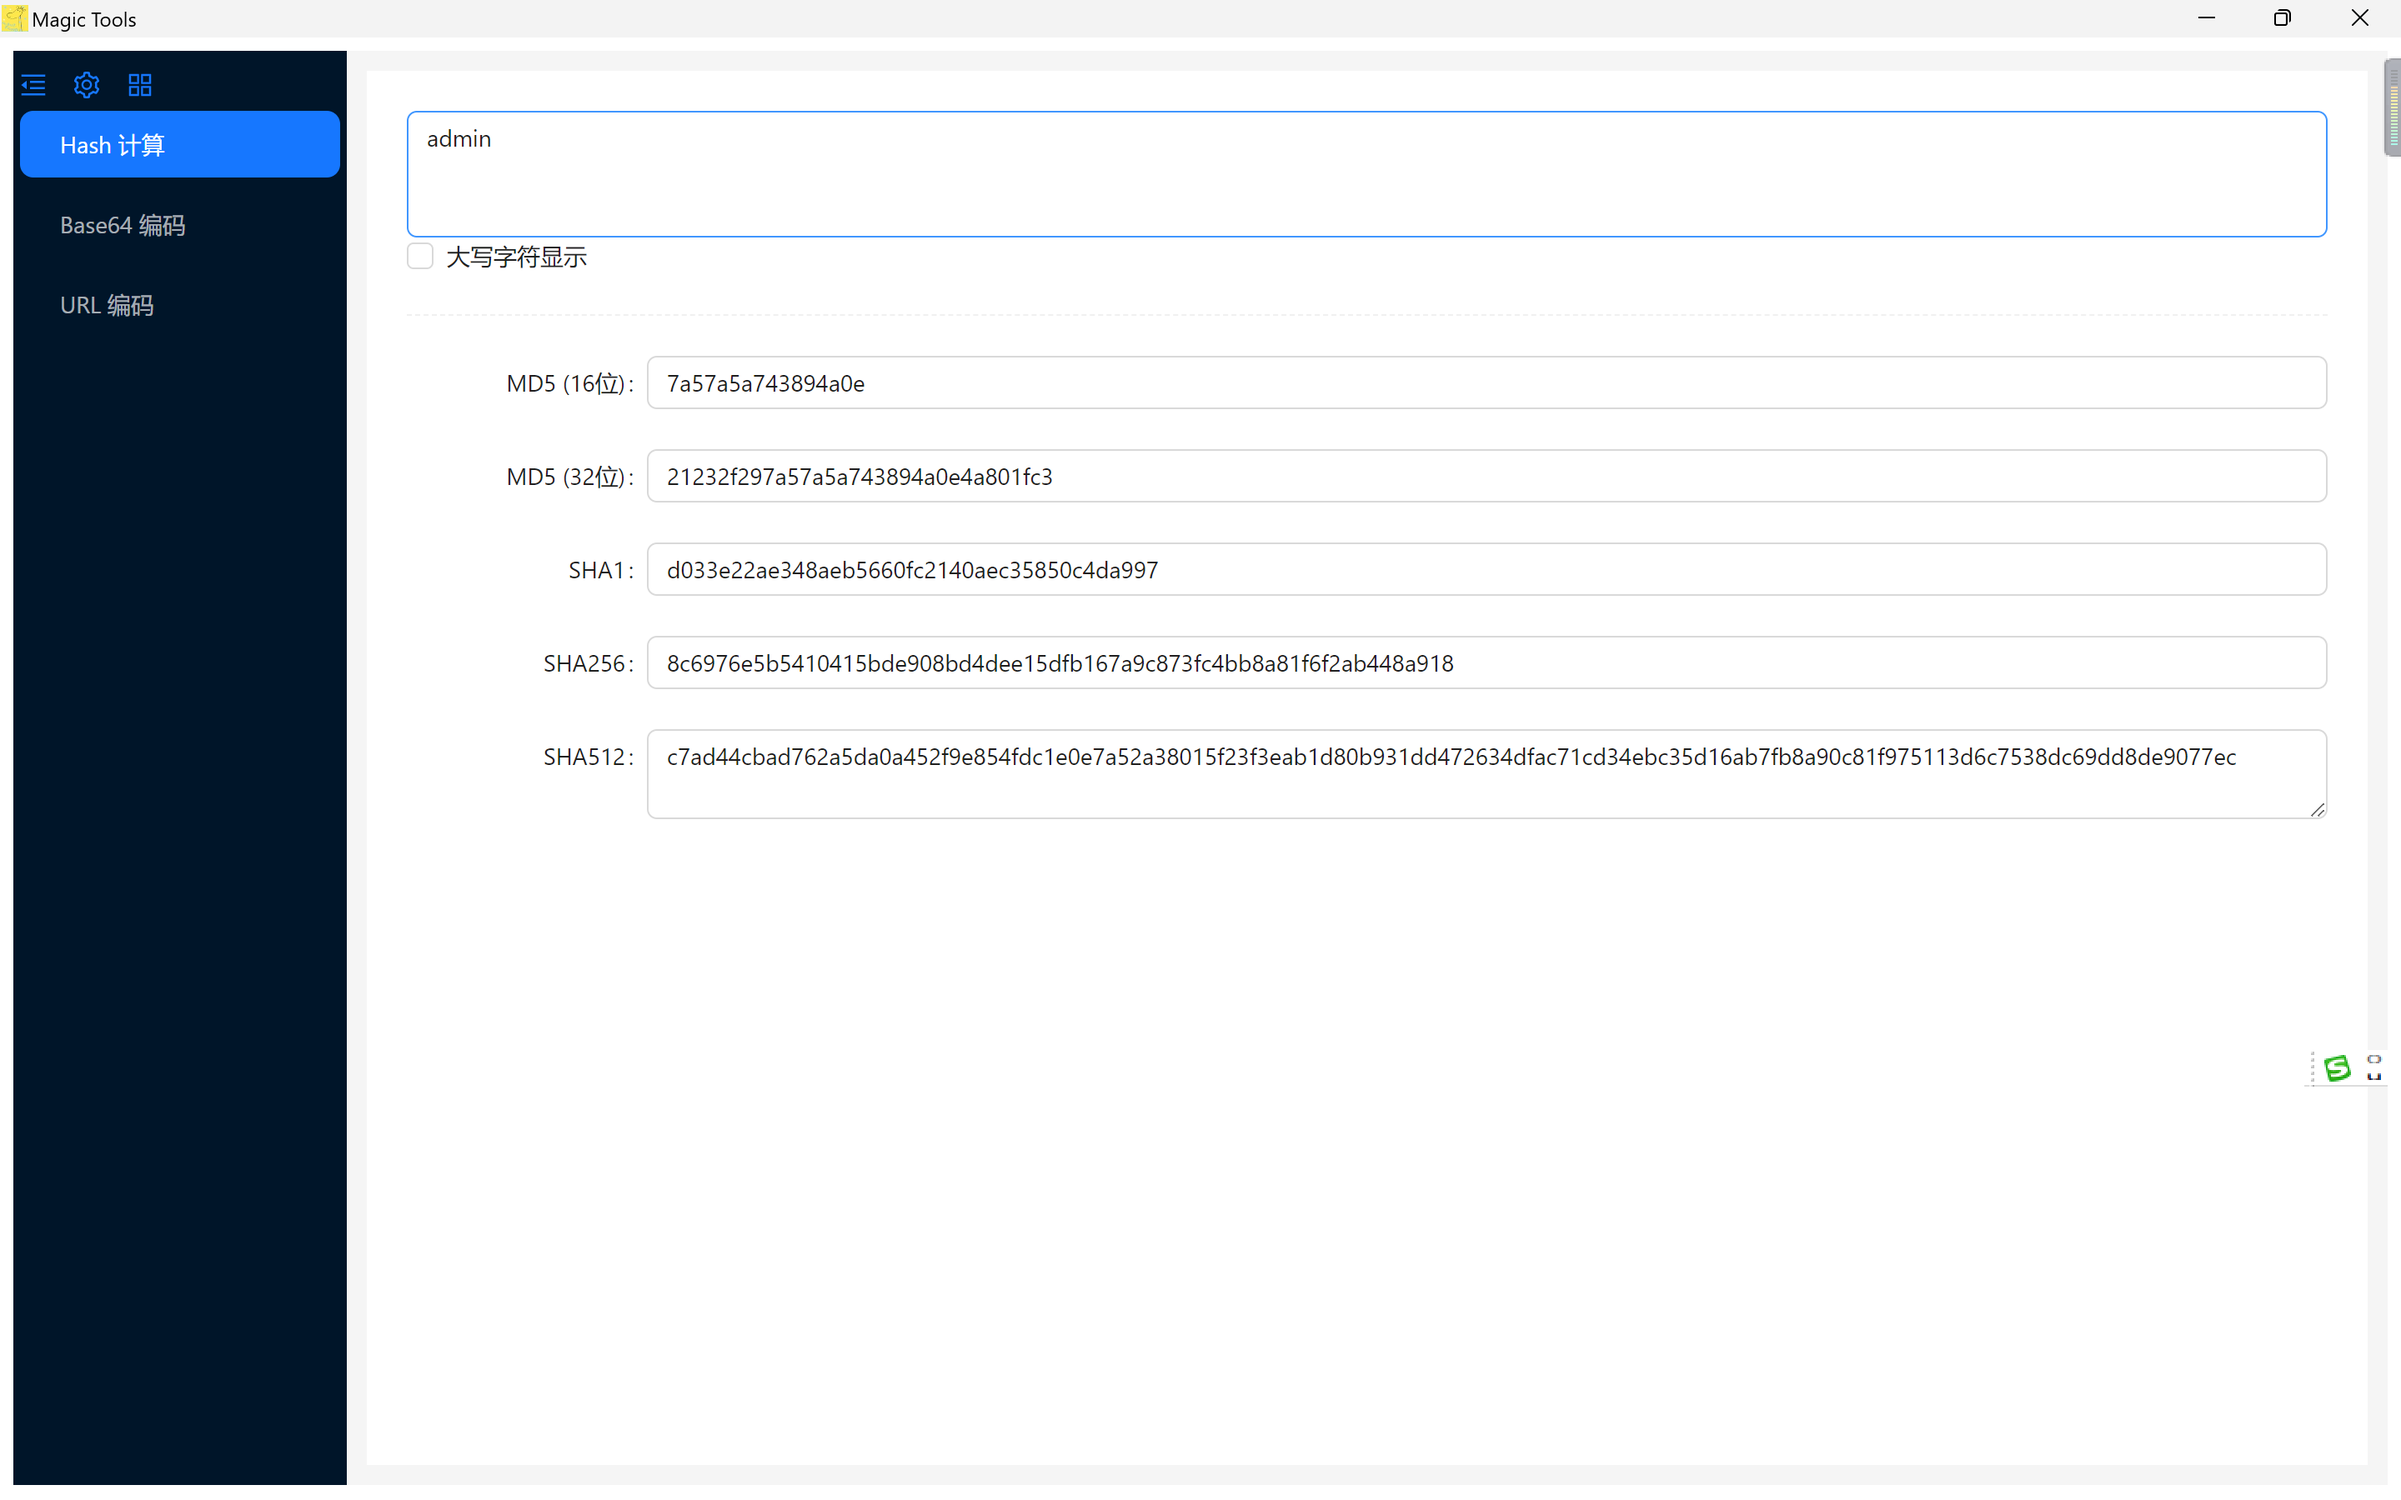
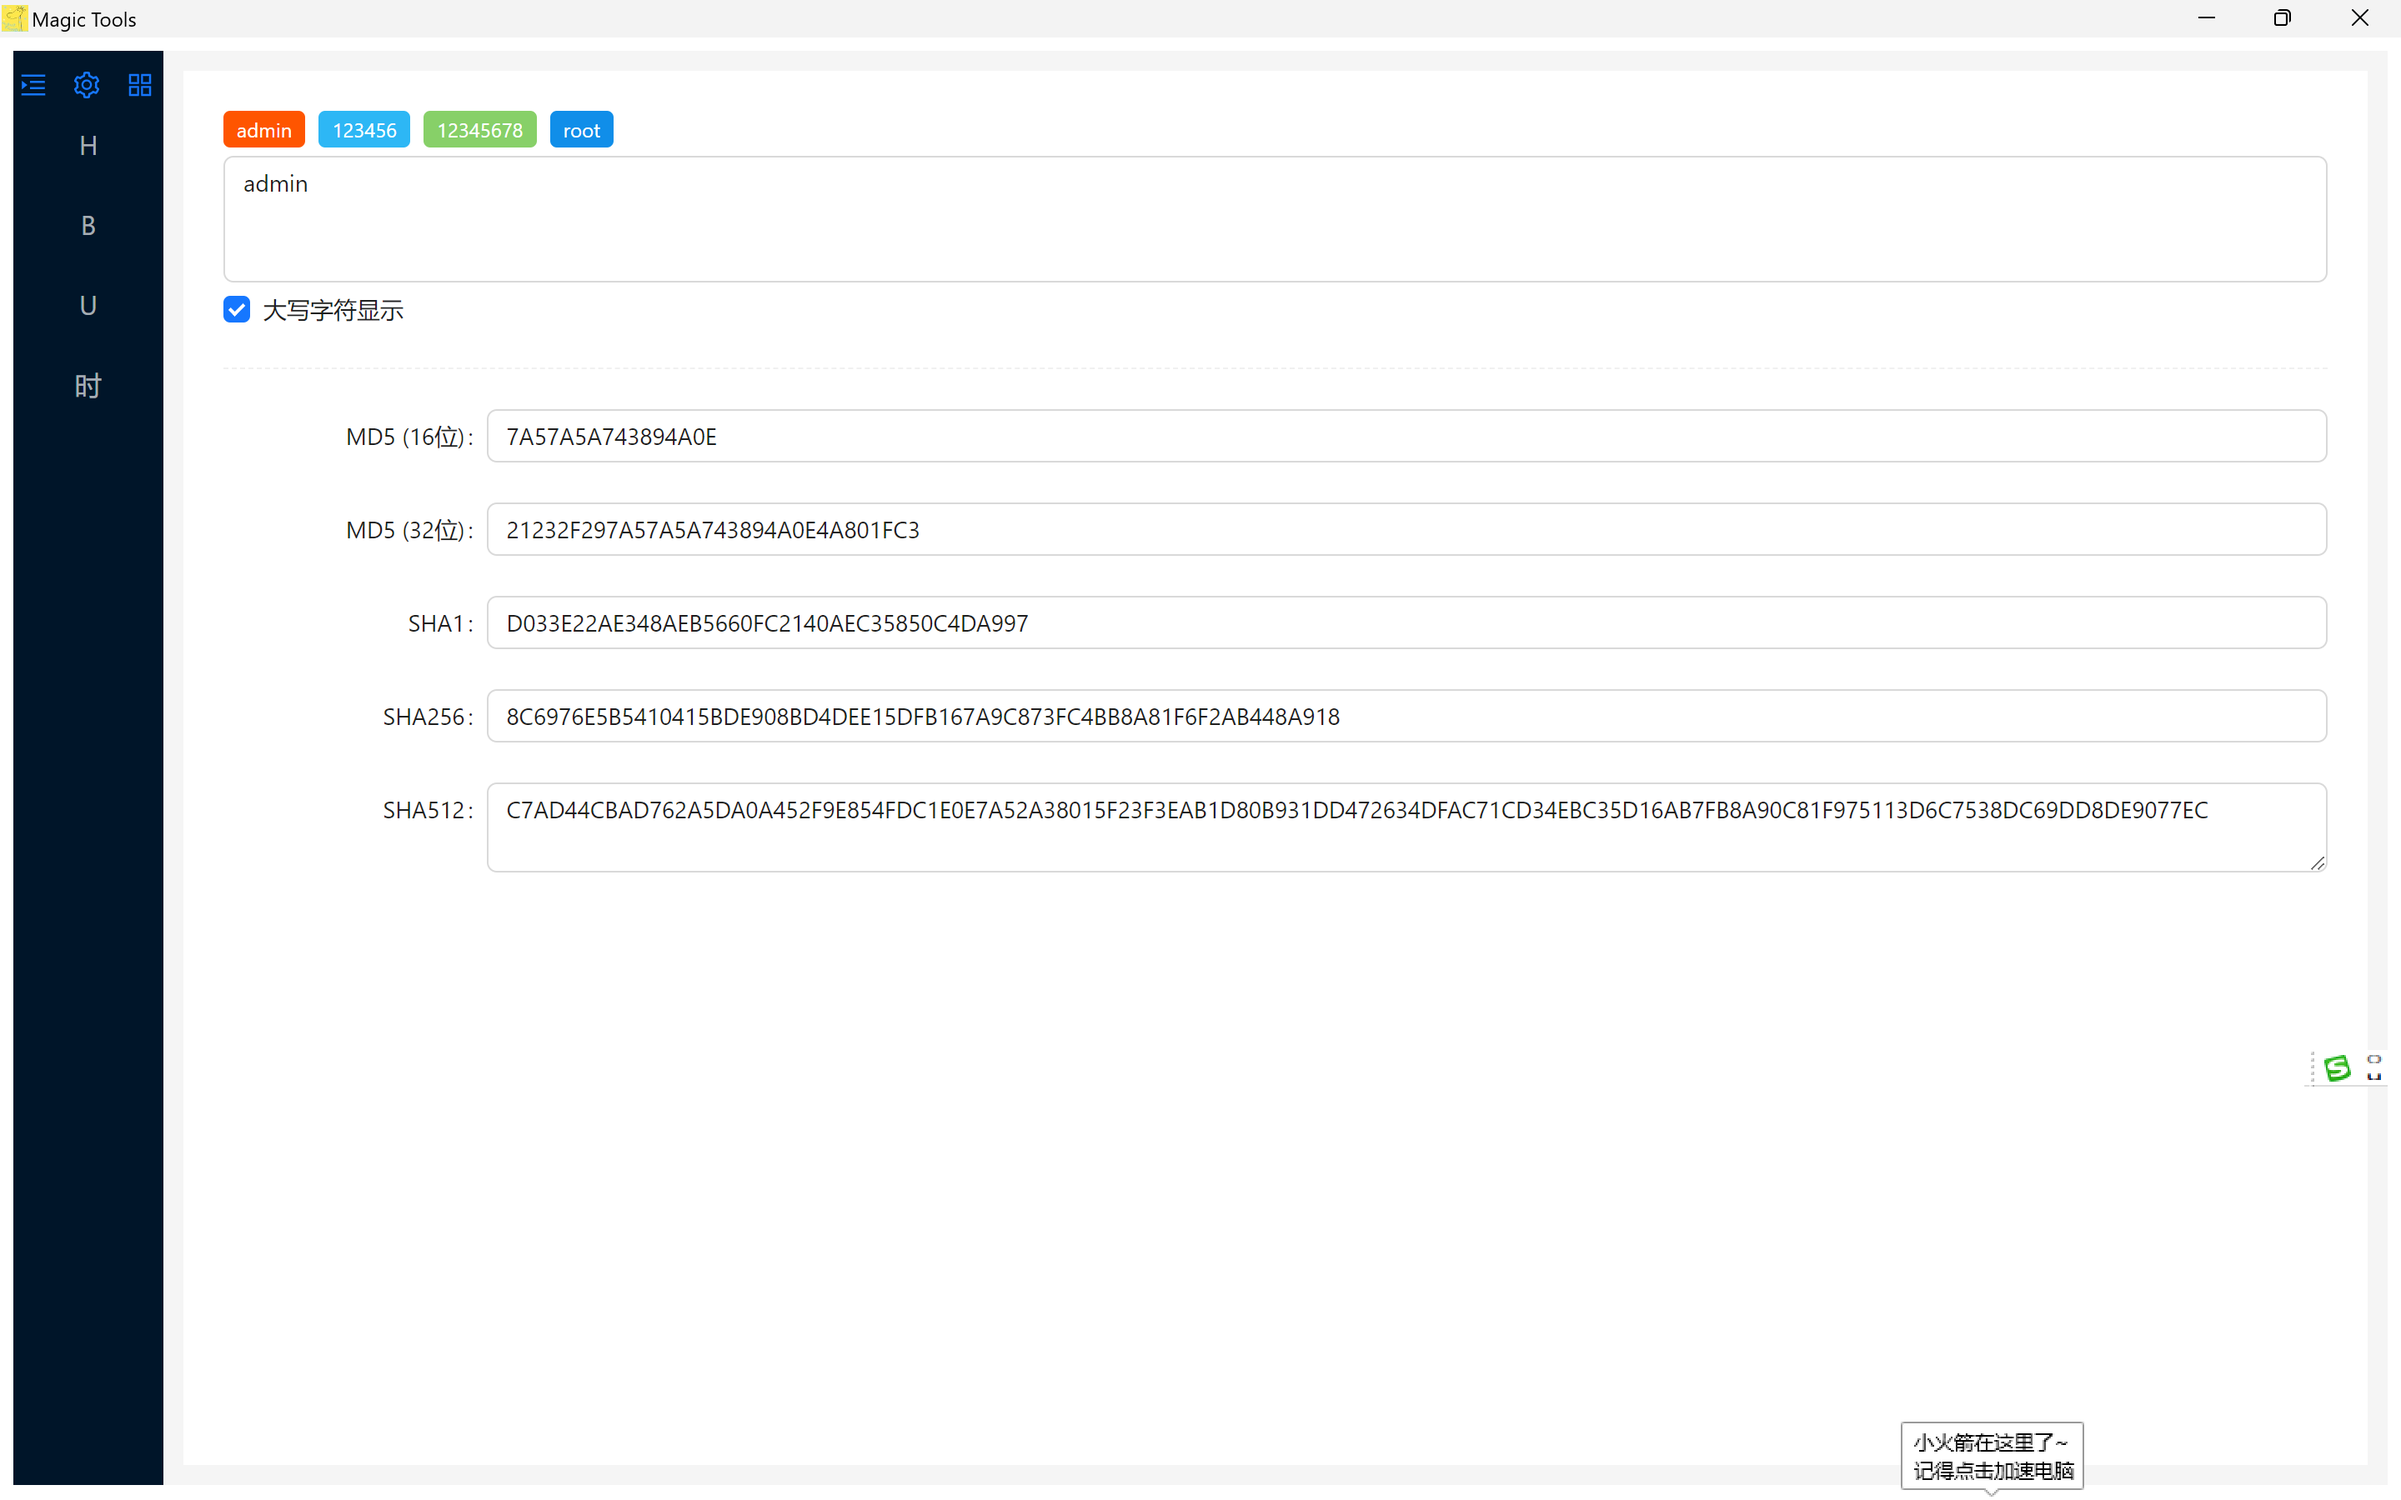
hash值计算 添加快捷输入

diff --git a/src/renderer/App/Hash/index.tsx b/src/renderer/App/Hash/index.tsx
@@ -1,4 +1,4 @@
-import { Checkbox, Form, Input, Divider, message } from "antd";
+import { Checkbox, Form, Input, Divider, message, Space,Tag } from "antd";
 import { useState } from "react";
 const { TextArea } = Input;
 import { copyTextToClipboard } from "./../../lib"
@@ -22,16 +22,13 @@ const Hash = () => {
   const [ value, setValue ] = useState('');
   const [ checked, setChecked ] = useState(false);
   const [ hash, setHash ] = useState(emptyResult);
+  const [ notice, contextHolder] = message.useMessage();
 
   const inputStyle = { cursor: "pointer" };
+
   const inputClick = (e :React.MouseEvent<HTMLElement>) => {
     copyTextToClipboard((e.target as HTMLInputElement).value);
-    openNotification("bottomRight");
-  };
-
-  const [api, contextHolder] = message.useMessage();
-  const openNotification = (placement :string ) => {
-    api.success("复制到粘贴板成功！！！");
+    notice.success("复制到粘贴板成功！！！");
   };
 
   const upperLowerFormat = (str :string,flag :boolean) => {
@@ -55,31 +52,43 @@ const Hash = () => {
     }
   };
 
-  const calHash = (e :React.ChangeEvent<HTMLTextAreaElement>) => {
+  const textAreaChange = (e :React.ChangeEvent<HTMLTextAreaElement>) => {
     const value = e.target.value.trim();
     setValue(value);
     if (value != "") {
-      const result = {
-        "md5": upperLowerFormat(md5(value).toString(),checked),
-        "md516": "",
-        "sha1": upperLowerFormat(sha1(value).toString(),checked),
-        "sha256": upperLowerFormat(sha256(value).toString(),checked),
-        "sha512": upperLowerFormat(sha512(value).toString(),checked),
-      };
-      // 处理 16 位 md5 
-      result["md516"] = upperLowerFormat(result["md5"].substring(8,24),checked); // 取 9-24 位
-      setHash(result);
+      calHash(value);
     } else {
       setHash(emptyResult);
     }
   }
 
+  const calHash = (value :string) => {
+    setValue(value);
+    const result = {
+      "md5": upperLowerFormat(md5(value).toString(),checked),
+      "md516": "",
+      "sha1": upperLowerFormat(sha1(value).toString(),checked),
+      "sha256": upperLowerFormat(sha256(value).toString(),checked),
+      "sha512": upperLowerFormat(sha512(value).toString(),checked),
+    };
+    // 处理 16 位 md5 
+    result["md516"] = upperLowerFormat(result["md5"].substring(8,24),checked); // 取 9-24 位
+    setHash(result);
+  }
+
   return (
     <div>
       {contextHolder}
+      <Space size={[0, 8]} wrap>
+        <Tag color="#ff5500" style={ inputStyle } onClick={ () => { calHash("admin") } } >admin</Tag>
+        <Tag color="#2db7f5" style={ inputStyle } onClick={ () => { calHash("123456") } }>123456</Tag>
+        <Tag color="#87d068" style={ inputStyle } onClick={ () => { calHash("12345678") } }>12345678</Tag>
+        <Tag color="#108ee9" style={ inputStyle } onClick={ () => { calHash("root") } }>root</Tag>
+      </Space>
       <TextArea
+        style={ { margin: "5px 0 5px 0" }}
         value= { value }
-        onChange={ calHash }
+        onChange={ textAreaChange }
         placeholder="输入需要计算 Hash 值的内容"
         autoSize={{ minRows: 3, maxRows: 5 }}
       />
@@ -89,19 +98,19 @@ const Hash = () => {
 
       <Form name="basic"labelCol={{ span: 3 }}autoComplete="off">
         <Form.Item label="MD5 (16位)">
-          <Input readOnly style={ inputStyle} onClick={ inputClick } value= { hash.md516 } />
+          <Input readOnly style={ inputStyle } onClick={ inputClick } value= { hash.md516 } />
         </Form.Item>
         <Form.Item label="MD5 (32位)">
-          <Input readOnly style={ inputStyle} onClick={ inputClick } value= { hash.md5 } />
+          <Input readOnly style={ inputStyle } onClick={ inputClick } value= { hash.md5 } />
         </Form.Item>
         <Form.Item label="SHA1">
-          <Input readOnly style={ inputStyle} onClick={ inputClick } value= { hash.sha1 } />
+          <Input readOnly style={ inputStyle } onClick={ inputClick } value= { hash.sha1 } />
         </Form.Item>
         <Form.Item label="SHA256">
-          <Input readOnly style={ inputStyle} onClick={ inputClick } value= { hash.sha256 }/>
+          <Input readOnly style={ inputStyle } onClick={ inputClick } value= { hash.sha256 }/>
         </Form.Item>
         <Form.Item label="SHA512">
-          <TextArea readOnly style={ inputStyle} onClick={ inputClick } value= { hash.sha512 }/>
+          <TextArea readOnly style={ inputStyle } onClick={ inputClick } value= { hash.sha512 }/>
         </Form.Item>
       </Form>
 
